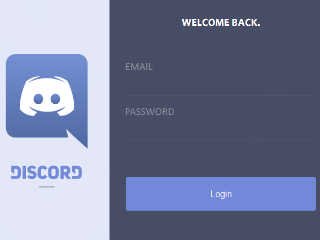
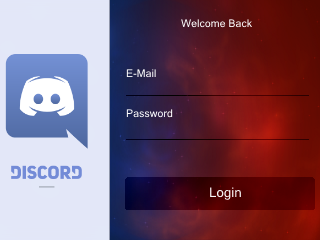
Made easier theme engine + Nova Theme

diff --git a/source/3dsGUI.cpp b/source/3dsGUI.cpp
@@ -133,8 +133,9 @@ void D3DSGUI::drawBottomScreen()
 {
 	try {
 		sf2d_draw_rectangle(0, 0, 320, 240, bg_colour);
+		sf2d_draw_texture(bottommessageImage, 0, 0);
 		sf2d_draw_texture(menuImage, 0, 0);
-		sf2d_draw_rectangle(0, 200, 320, 40, messagebox_bg_colour);
+		sf2d_draw_texture(messageboxImage, 0, 200);
 		if (discordPtr->currentGuild != 0) {
 			sftd_draw_text(fontGuilds, 74, 15, bottom_screen_name_colour, 22, std::string("#" + discordPtr->guilds[discordPtr->currentGuild].channels[discordPtr->currentChannel].name).c_str());
 			text = converter.from_bytes(wrap(discordPtr->guilds[discordPtr->currentGuild].channels[discordPtr->currentChannel].topic.c_str(), fontText, 13, 246));
@@ -182,6 +183,7 @@ D3DSGUI::D3DSGUI(){
 	}
 	loadThemeFromJson();
 	sf2d_set_clear_color(clear_colour);
+	clearImage = loadTextureFromSdmcOrRomfs("clear.png");
 	backgroundImage = loadTextureFromSdmcOrRomfs("login-form-background.png");
 	loginFormImage = loadTextureFromSdmcOrRomfs("login-form.png");
 	loadingImage = loadTextureFromSdmcOrRomfs("loading.png");
@@ -190,6 +192,11 @@ D3DSGUI::D3DSGUI(){
 	defaultAvatarImage = loadTextureFromSdmcOrRomfs("default-avatar.png");
 	messagesBackgroundImage = loadTextureFromSdmcOrRomfs("messages-background.png");
 	avatarCircleImage = loadTextureFromSdmcOrRomfs("avatar-circle.png");
+	bottommessageImage = loadTextureFromSdmcOrRomfs("bottom-message.png");
+	titlebgImage = loadTextureFromSdmcOrRomfs("titlebg.png");
+	channelbgImage = loadTextureFromSdmcOrRomfs("channelbg.png");
+	messageboxImage = loadTextureFromSdmcOrRomfs("messagebox.png");
+	menulineImage = loadTextureFromSdmcOrRomfs("menuline.png");
 
 	emojis[0] = loadTextureFromSdmcOrRomfs("emojispritesheet_ul.png");
 	emojis[1] = loadTextureFromSdmcOrRomfs("emojispritesheet_ur.png");
@@ -244,6 +251,12 @@ D3DSGUI::~D3DSGUI(){
 	sf2d_free_texture(menuImage);
 	sf2d_free_texture(defaultAvatarImage);
 	sf2d_free_texture(avatarImage);
+	sf2d_free_texture(bottommessageImage);
+	sf2d_free_texture(titlebgImage);
+	sf2d_free_texture(channelbgImage);
+	sf2d_free_texture(messageboxImage);
+	sf2d_free_texture(clearImage);
+	sf2d_free_texture(menulineImage);
 	sftd_free_font(pgf);
 	sftd_free_font(fontGuilds);
 	sftd_free_font(fontUser);
@@ -330,6 +343,7 @@ std::string D3DSGUI::wrap(const char * text, sftd_font *font, int font_size, siz
 void D3DSGUI::Draw(){
 	sf2d_start_frame(GFX_TOP, GFX_LEFT);
 	if(state == 0){
+		sf2d_draw_texture(clearImage, 0,0);
 		sf2d_draw_texture(logoImage, 0, 0);
 		sf2d_end_frame();
 		sf2d_start_frame(GFX_BOTTOM, GFX_LEFT);
@@ -354,6 +368,7 @@ void D3DSGUI::Draw(){
 		sftd_draw_text(fontGuilds, 65, 105, credentials_colour, 22, "Loading your stuff");
 
 	}else if(state == 2){
+		sf2d_draw_texture(clearImage, 0,0);
 		sf2d_draw_texture(logoImage, 0, 0);
 		sf2d_end_frame();
 		sf2d_start_frame(GFX_BOTTOM, GFX_LEFT);
@@ -372,6 +387,7 @@ void D3DSGUI::Draw(){
 			}
 		}
 		sf2d_draw_rectangle(guildXIndex, 0, 320, 240, server_channel_bg_colour);
+		sf2d_draw_texture(channelbgImage, 0, 0);
 		for (int i = 0; i < guildBoxes.size(); i++) {
 			if (guildBoxes[i].x + guildBoxes[i].w > 0 && guildBoxes[i].x < 240) {
 				text = converter.from_bytes(discordPtr->guilds[i].name.c_str());
@@ -380,11 +396,14 @@ void D3DSGUI::Draw(){
 			}
 		}
 		sf2d_draw_rectangle(guildScrollX + guildXIndex, 0, 320, 49, server_channel_title_bg_colour);
+		sf2d_draw_texture(titlebgImage, 0, 0);
 		sf2d_draw_rectangle(guildScrollX + guildXIndex, 49, 320, 1, server_channel_title_line_colour);
+		sf2d_draw_texture(menulineImage, 0, 49);
 		sftd_draw_text(fontGuilds, guildScrollX + guildXIndex + 10, 13, server_channel_title_text_colour, 22, "Servers");
 		
 		
 	}else if(state == 3){
+		sf2d_draw_texture(clearImage, 0,0);
 		sf2d_draw_texture(logoImage, 0, 0);
 		sf2d_end_frame();
 		sf2d_start_frame(GFX_BOTTOM, GFX_LEFT);
@@ -409,6 +428,7 @@ void D3DSGUI::Draw(){
 			}
 		}
 		sf2d_draw_rectangle(channelXIndex, 0, 320, 240, server_channel_bg_colour);
+		sf2d_draw_texture(channelbgImage, 0, 0);
 		for(int i = 0 ; i < channelBoxes.size() ; i++){
 			if (channelBoxes[i].x + channelBoxes[i].w > 0 && channelBoxes[i].x < 240) {
 				text = discordPtr->currentGuild == 0 ? converter.from_bytes(discordPtr->directMessages[i].recipients[0].username) : converter.from_bytes("#" + discordPtr->guilds[discordPtr->currentGuild].channels[i].name);
@@ -417,6 +437,7 @@ void D3DSGUI::Draw(){
 			}
 		}
 		sf2d_draw_rectangle(channelScrollX + channelXIndex, 0, 320, 49, server_channel_title_bg_colour);
+		sf2d_draw_texture(titlebgImage, 0, 0);
 		sf2d_draw_rectangle(channelScrollX + channelXIndex, 49, 320, 1, server_channel_title_line_colour);
 		sftd_draw_text(fontGuilds, channelScrollX + channelXIndex + 10, 13, server_channel_title_text_colour, 22, discordPtr->guilds[discordPtr->currentGuild].name.c_str());
 		

diff --git a/source/3dsGUI.hpp b/source/3dsGUI.hpp
@@ -92,6 +92,7 @@ class D3DSGUI{
 		sftd_font *fontUser;
 		sftd_font *fontText;
 		
+		sf2d_texture *clearImage;
 		sf2d_texture *logoImage;
 		sf2d_texture *messagesBackgroundImage;
 		sf2d_texture *backgroundImage;
@@ -101,6 +102,11 @@ class D3DSGUI{
 		sf2d_texture *defaultAvatarImage;
 		sf2d_texture *avatarImage;
 		sf2d_texture *avatarCircleImage;
+		sf2d_texture *bottommessageImage;
+		sf2d_texture *channelbgImage;
+		sf2d_texture *titlebgImage;
+		sf2d_texture *messageboxImage;
+		sf2d_texture *menulineImage;
 		sf2d_texture *emojis[4];
 
 		std::vector<rectangle> rectangles;
